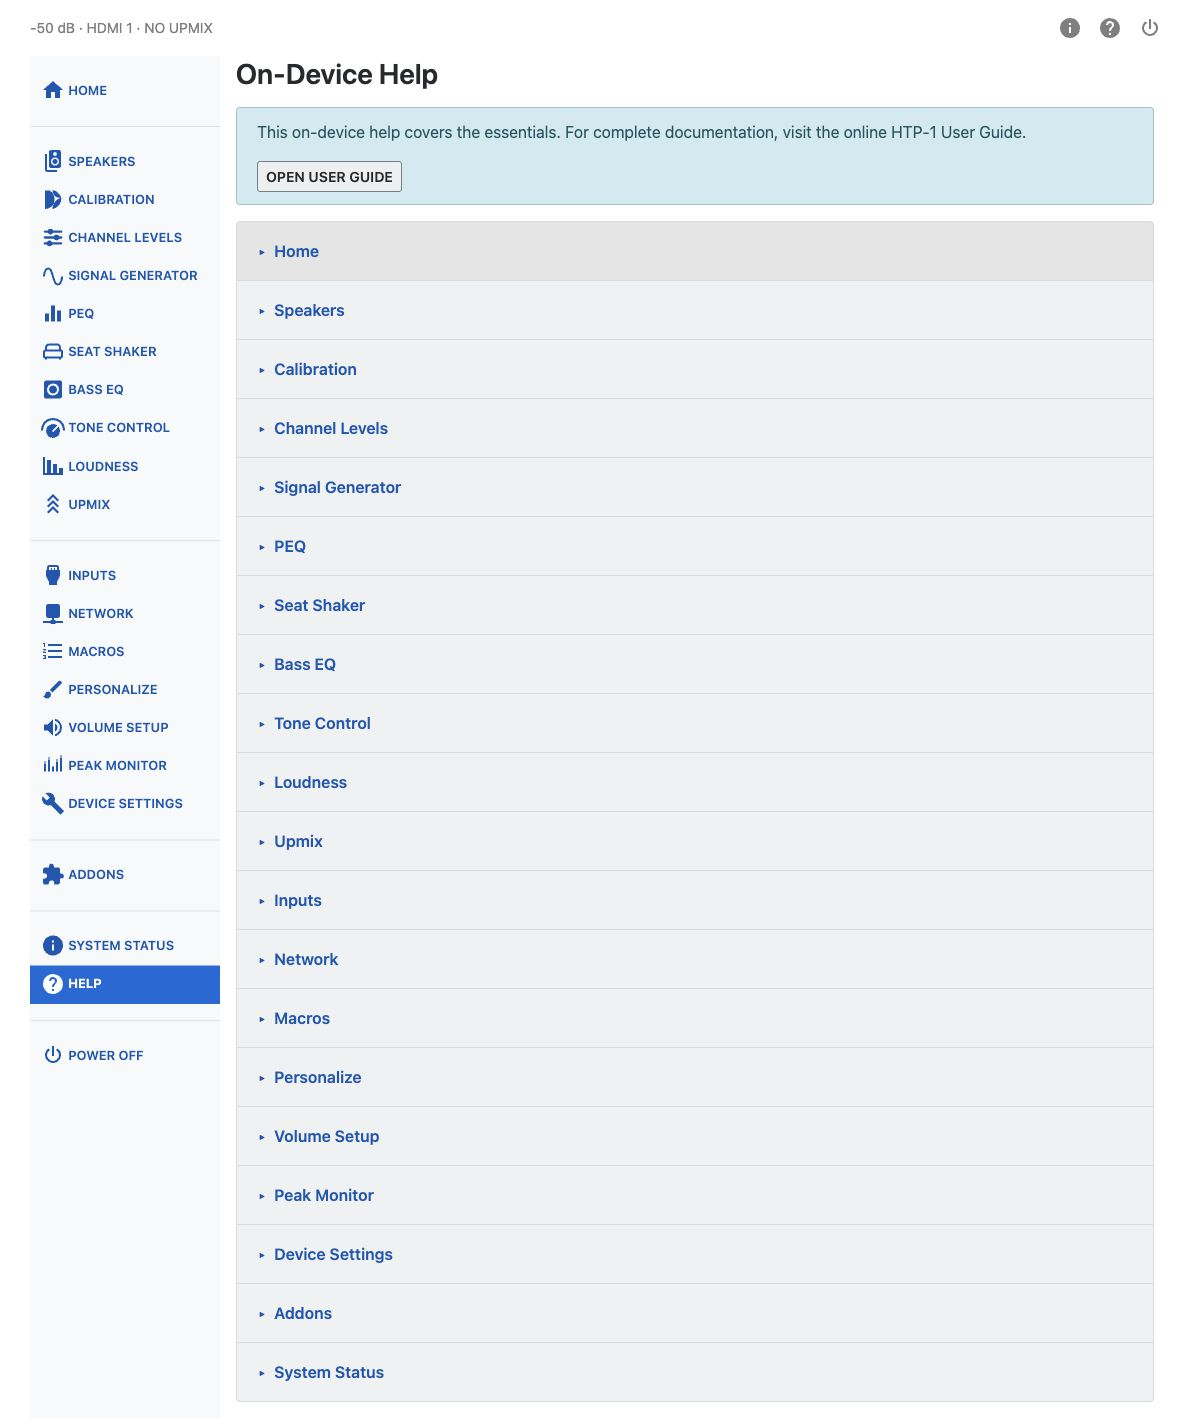
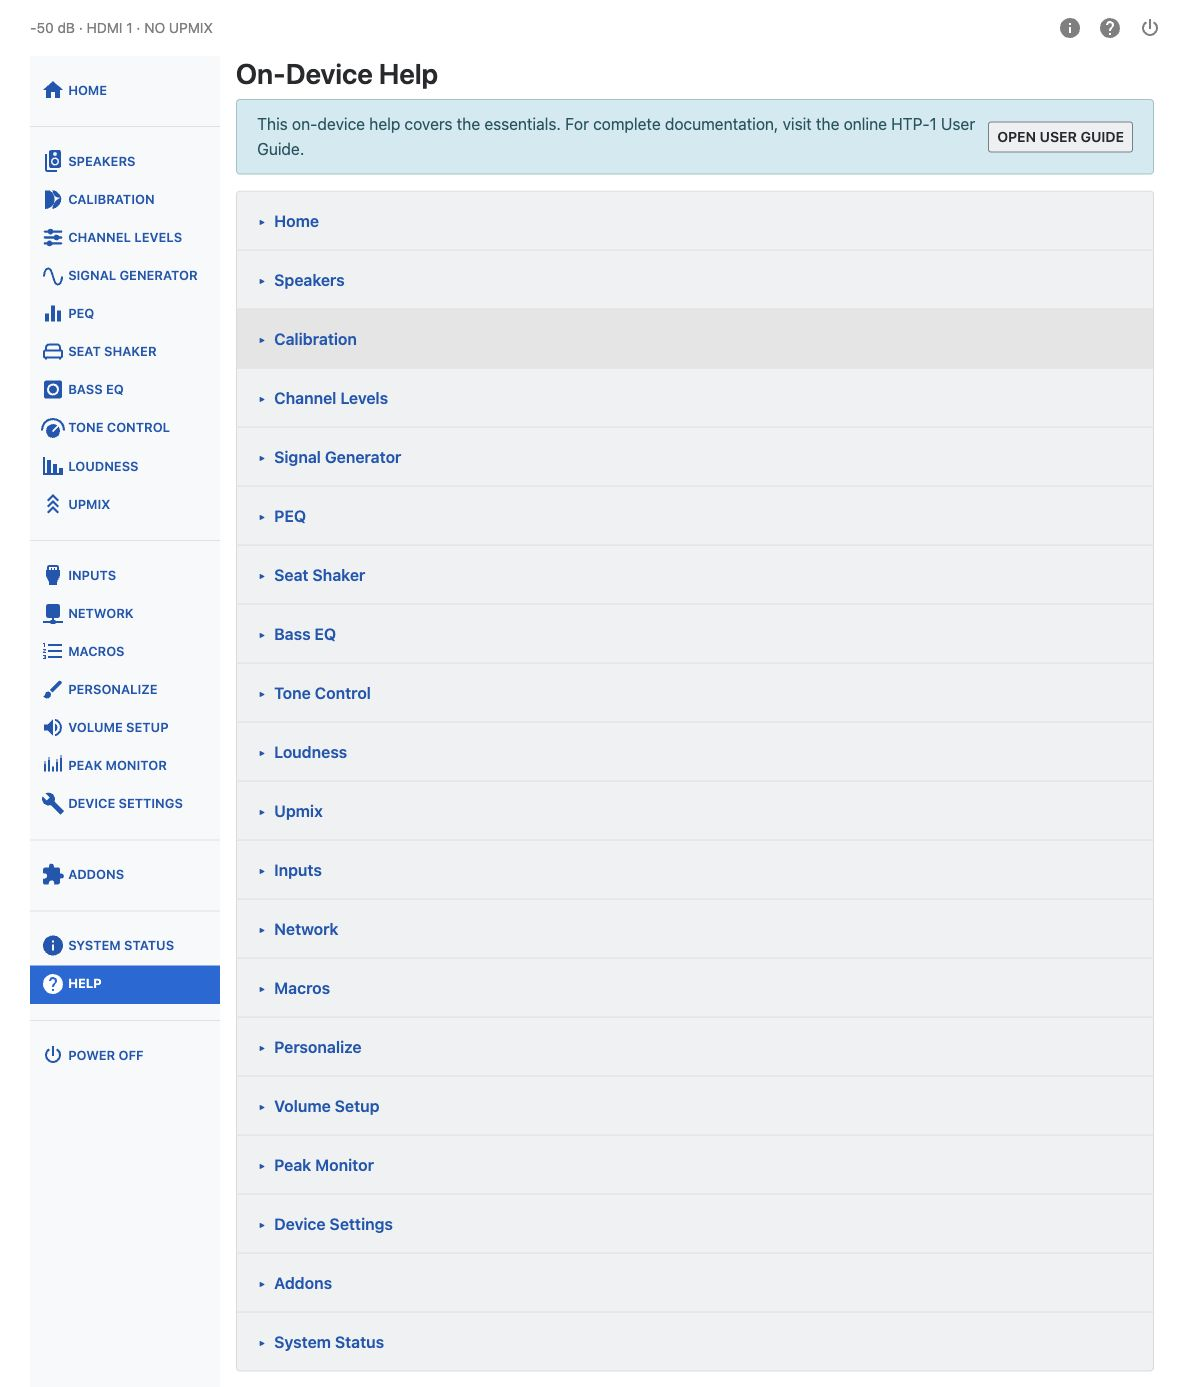
Refresh final v2.2 manual screenshots and Dirac guidance

diff --git a/docs/development/manual-screenshot-checklist.md b/docs/development/manual-screenshot-checklist.md
@@ -329,6 +329,66 @@ This review does not establish physical factory defaults. System Status and
 Version history still show rc1 and await the final public release captures;
 both agreed deferrals below remain unchanged.
 
+### Approved final screenshot comparison — 20 November 2026
+
+The 56 WebUI, Remote and front-panel images were checked against assembled
+candidate `150abd95f026882faa3a411dd4f5869612eeef0d` (WebUI
+`ebeb74e763d0b43396da8f7a52a1f0637cb801fa`, integration
+`963811de89e88f71a7c1a139803fd08bc9f3d337`). The physical unit reports that
+same installed build. Existing components, shared controls and styling were
+inspected before preparing replacements; no application code was changed.
+
+Fifteen approved replacements are adopted:
+
+- [x] Calibration overview, advanced view, calibrated ART example and slot-rename
+  detail: current tab styling, quoted Notes labels, bulk mute button colors and
+  editable Seat Shaker controls.
+- [x] Dirac Live Load now and Filter Missing details: current Calibration tabs.
+- [x] Channel Levels, PEQ overview and Editor detail, Seat Shaker and Vintage Custom
+  Loudness detail: current reset-button styling.
+- [x] Advanced Volume Setup: current Zero Point layout and headroom readout label.
+- [x] Personalize: removed the explanation no longer displayed in the interface.
+- [x] On-Device Help: current introduction and User Guide button layout; all
+  sections remain collapsed.
+- [x] Device Settings: current collapsed Danger Zone heading and disclosure arrow;
+  source-derived defaults, brightness 7 and settled trigger outputs On are retained.
+
+The other 39 current-interface images are retained. Comparison combines browser
+renders of the shipped assets with inspection of the rendering changes since the
+previous approved review. The four speaker examples were rendered with their
+matching example states. Import/export, HDMI Status, PEQ placement, BEQ, Peak
+Monitor and other retained detail views still represent the relevant controls;
+minor spacing changes alone do not trigger replacements.
+
+The normal front panel was also captured read-only on the physical unit at
+800 × 480. Help was compared in an isolated rendering of the shipped panel.
+The Remote files and native meter drawing code are unchanged from the previous
+review. Existing native illustrations are retained; no new active-meter capture
+or physical panel interaction was performed. Alternative-panel features remain
+text-only. The third-party Dirac Live app images and historical upgrade image
+are outside this WebUI/front-panel refresh and are retained.
+
+Replacement captures use a 1200 × 900 desktop viewport. Detail crops preserve
+source pixels and include the relevant controls and context. Defaults, recovery
+states and calibrated examples were prepared in the isolated preview; no
+physical recovery fault was induced. Before/after settings snapshots found no
+changes to the checked unit settings or calibration slots.
+
+The directly related wording corrections describe Seat Shaker controls on
+Calibration, use the current Volume Setup headroom readout label, and remove
+crossover fields from the alt text of the Large-speaker layout-editor image.
+The approved Dirac Live corrections add the Calibrating status and replace the
+32 kHz manual-Off advice with automatic restoration while On remains selected.
+The wording refers to output sample rate rather than input sample rate. These
+corrections were traced through the shipped WebUI, avController 5.187 and APM 430
+source; five focused UI-state checks passed. No new physical 32 kHz playback
+test was performed. Other wording, captions, image paths and page organization
+are preserved.
+
+System Status and Version history remain pending final public release captures.
+They retain the existing rc1 images; development-build information is not added
+to the public manual. Both agreed deferrals below remain unchanged.
+
 ### Agreed deferred items
 
 - [ ] Physical factory-default confirmation — deferred until final v2.2

diff --git a/docs/user-guide/calibration.md b/docs/user-guide/calibration.md
@@ -71,7 +71,7 @@ calibration sets optimal delay and trim automatically, so user delay and user tr
 remain at zero afterward.
 
 !!! warning
-    User delay and user trim are locked when a Bass Control (BC) or Active Room Treatment (ART)
+    User delay and user trim for speakers are locked when a Bass Control (BC) or Active Room Treatment (ART)
     filter is loaded. Editing them here would work against what the filter is doing. Use the
     [Channel Levels](channel-levels.md) page instead to make a small, permanent level change under
     a BC or ART calibration.
@@ -82,7 +82,7 @@ remain at zero afterward.
     are therefore reset to zero as well. If you have hand-tuned values you want to keep, note them
     down before transferring a filter.
 
-User delay and trim settings are stored independently with each slot, so you can keep different
+Each speaker's user delay and trim settings are stored independently with each slot, so you can keep different
 adjustments for each calibration.
 
 A warning appears when the selected calibration does not match the current speaker layout. The
@@ -90,8 +90,10 @@ interface does not identify uncalibrated speakers from zero delay or trim values
 red when it contains a nonzero user adjustment that is currently disallowed, or when the speaker is
 muted.
 
-If you have a seat shaker channel, it is greyed out in this table. Its delay and trim are always
-zero and cannot be edited here.
+When Seat Shaker is assigned to a subwoofer output, its row provides delay (0–50 ms), trim
+(−24 to +6 dB) and, with **Show Advanced Settings** on, mute. These are the same settings as on
+[Seat Shaker](seat-shaker.md), shared across calibration slots. They remain editable with BC or ART.
+Dirac Live and Total values are not shown for this channel.
 
 ## Show Advanced Settings
 
@@ -112,6 +114,7 @@ fields.
 Three buttons let you manage mutes across every speaker at once: **Mute All Speakers**, **Unmute All
 Speakers**, and **Invert Mute on All Speakers** (mutes everything that was unmuted and unmutes
 everything that was muted). Muting a speaker preserves its trim, so unmuting restores the same value.
+These buttons also include Seat Shaker when it is assigned to a subwoofer output.
 
 ### Advanced PEQ Options
 

diff --git a/docs/user-guide/dirac.md b/docs/user-guide/dirac.md
@@ -236,11 +236,12 @@ attention. Its label and color provide more information than a simple on/off ind
 | Off / Bypass | Dirac Live filtering is intentionally disabled or bypassed. |
 | Ready | Dirac Live is enabled and ready to process audio when playback starts. |
 | Active | The correct filter is loaded and confirmed active for the selected slot and source. |
+| Calibrating | The Dirac Live app is in calibration mode. |
 | Starting / Loading / Applying / Checking | Dirac Live is starting, a filter operation is in progress, or the processor's state is being verified. |
 | Filter Not Confirmed | Dirac Live is on, but the HTP-1 has not confirmed that the right filter is loaded for the current source. |
 | Filters Loading / Not Checked | Some filter versions are not loaded yet, or the HTP-1 has not confirmed that every slot's filters are ready. Missing filters load automatically when nothing is playing. |
 | Filter Missing / Wrong Filter | The required filter is missing or the processor has loaded a different filter than expected. |
-| Not Supported | Dirac Live does not support the current sample rate, such as 32 kHz. |
+| Not Supported | Dirac Live does not support the current output sample rate, such as 32 kHz. |
 | Not Applied / Still Applied | The processor's actual filtering state does not match the selected setting. |
 | Load Failed / Load Interrupted / Cache Damaged / Service Down / Setup Failed | A filter operation or service has failed and needs attention. |
 | Unknown | The HTP-1 has not reported the Dirac Live setting. |
@@ -403,8 +404,8 @@ If Dirac Live reports a problem, open the **Calibration** page and read the disp
 Some filter loads may be refused when no audio is playing. If a load cannot be completed, start
 playback and try the suggested recovery action again.
 
-Dirac Live does not support 32 kHz audio. If the interface reports an unsupported sample rate,
-switch Dirac Live off while playing that source.
+At a 32 kHz output sample rate, audio plays without Dirac Live filtering. If Dirac Live is set to
+On, filtering resumes automatically when playback returns to a supported output sample rate.
 
 !!! tip
     Loading several calibrations for a large speaker layout can take several minutes. Wait until

diff --git a/docs/user-guide/volume-setup.md b/docs/user-guide/volume-setup.md
@@ -64,7 +64,7 @@ This changes only the displayed volume. It does **not** change the actual playba
 Zero Point ranges from −100 to +22 dB and includes a **Default** button. The advanced section displays both the internal and displayed Master Volume values so you can see how the offset is applied.
 
 Zero Point applies to main-volume positions: current Main Volume, Power On Volume, Minimum Volume, Maximum Volume, and Highest playback volume that preserves digital headroom.
-It does not apply to Mix Out Volume, Mix Out Power On Volume, Maximum Digital Headroom, or Currently Available Digital Headroom.
+It does not apply to Mix Out Volume, Mix Out Power On Volume, Maximum Digital Headroom, or Digital headroom available at current master volume.
 Changing Zero Point does not rewrite any of those underlying settings. Their displayed values change because the scale has moved.
 
 ---
@@ -88,7 +88,7 @@ Use **Peak Monitor** to determine the smallest **Maximum Digital Headroom** valu
 The page also shows two live readouts:
 
 - **Highest playback volume that preserves digital headroom** — the calculated threshold described above.
-- **Currently available digital headroom** — the digital headroom remaining at the current master-volume setting.
+- **Digital headroom available at current master volume** — the digital headroom remaining at the current master-volume setting.
 
 ---
 

diff --git a/docs/user-guide/speaker-setup.md b/docs/user-guide/speaker-setup.md
@@ -11,7 +11,7 @@ The layout table on the Speakers page is read-only — the checkboxes, crossover
 
 ## The Edit Speaker Layout Dialog
 
-![Edit Speaker Layout dialog with speaker checkboxes, crossover frequency fields, and size buttons](images/ui-speakers-layout-dialog-crop.png)
+![Edit Speaker Layout dialog with speaker checkboxes and size buttons](images/ui-speakers-layout-dialog-crop.png)
 
 The dialog lists every possible speaker in three groups — Main Speaker Outputs, Surround Speaker Outputs, and Upper Speaker Outputs — each with up to three controls per row:
 
